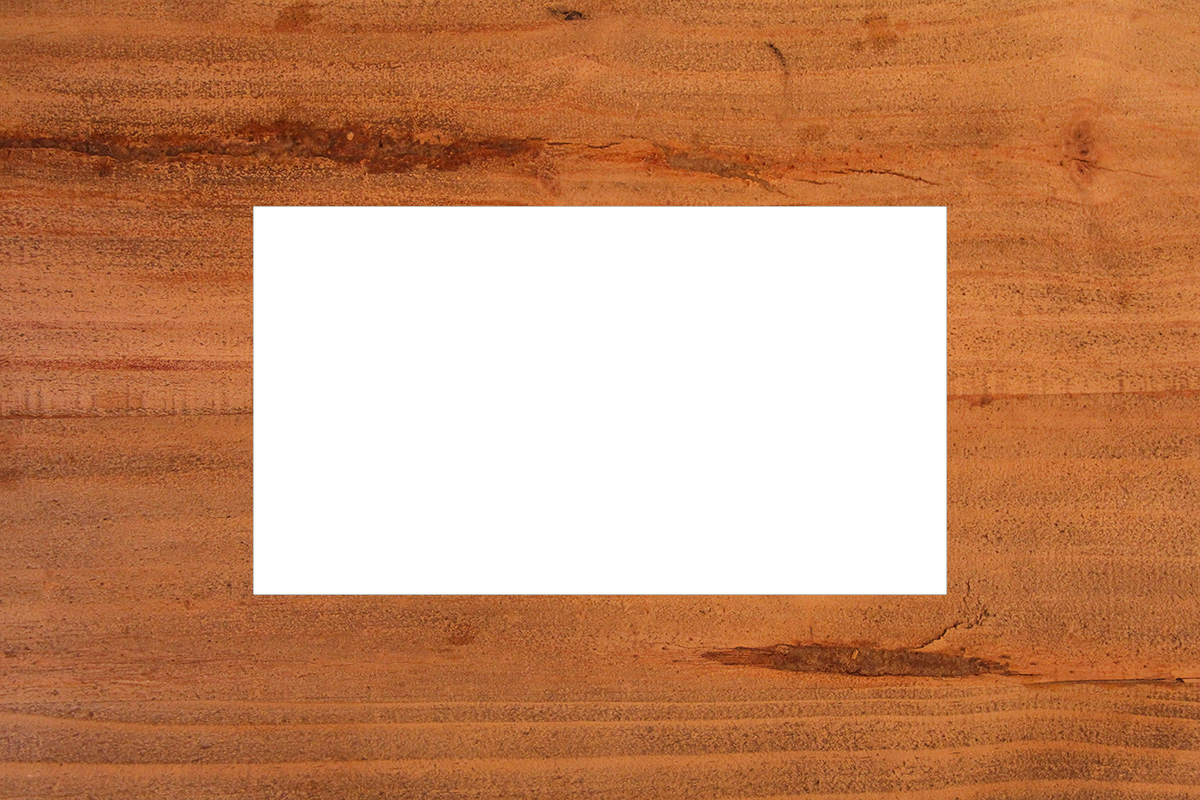
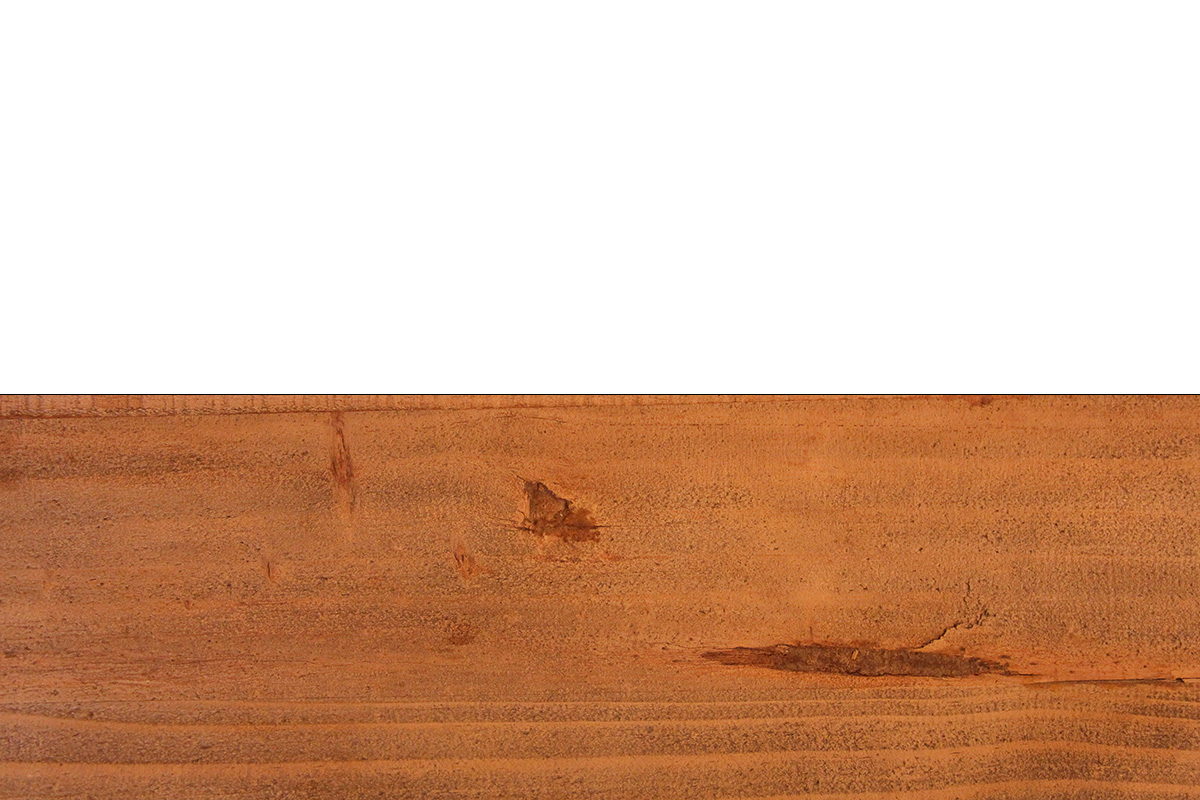
5

diff --git a/Objects/text.py b/Objects/text.py
@@ -5,9 +5,9 @@ class text(TextObject):
     def __init__(self, room, x: int, y: int, text=None):       
         TextObject.__init__(self, room, x, y, text)
         
-        self.size = 40
+        self.size = 30
         self.font = 'Arial Black'
-        self.colour = (255,255,255)
+        self.colour = (0,0,0)
         self.bold = False
         self.text = self.get_message()
         self.update_text()

diff --git a/GameFrame/Globals.py b/GameFrame/Globals.py
@@ -41,9 +41,7 @@ class Globals:
 
     mail_messages = [
         "bad1",
-        "good1",
+        "good1"
         "bad2",
-        "good2",
-        "good3",
-        "bad3"
+        "good2"
     ]
